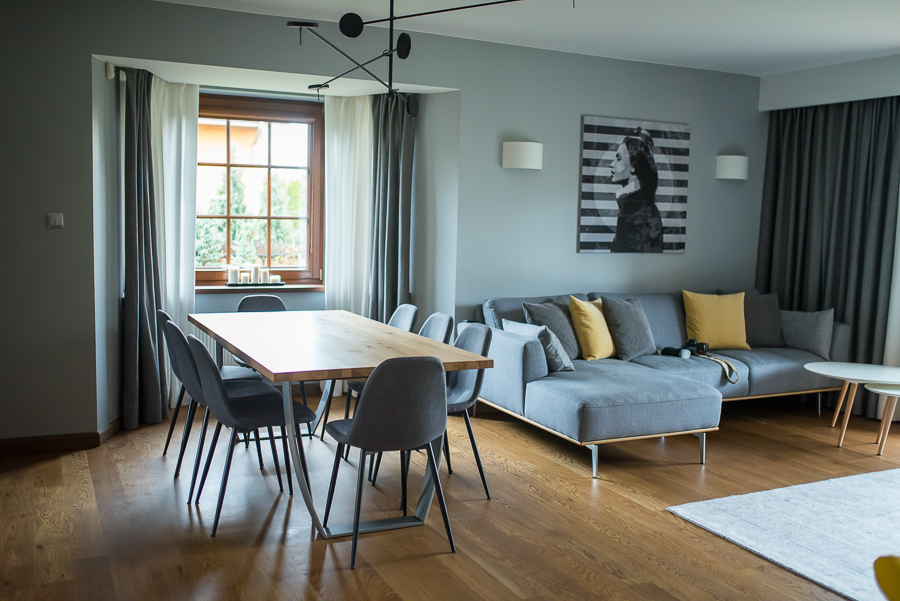
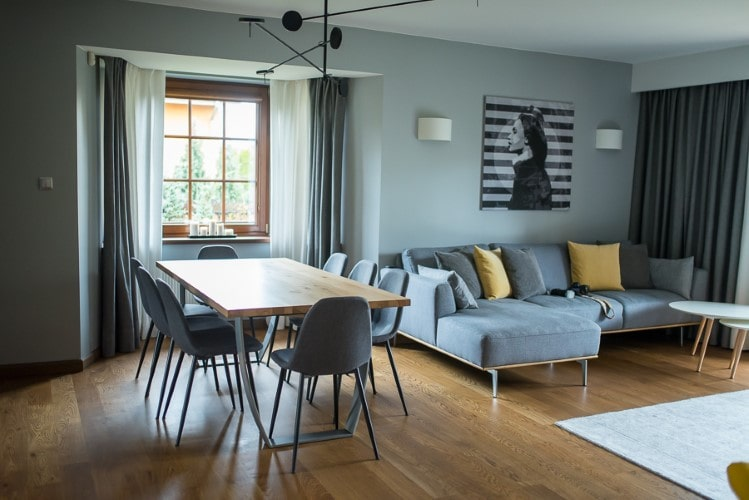
zdjecia resize

diff --git a/styles/style.css b/styles/style.css
@@ -84,43 +84,14 @@ a {
   padding-left: 25px;
 }
 
-.opis, .kontakt{
+.opis{
   width: 1000px;
   padding: 10px;
   color: #474747;
   text-align: justify;
   font-size: 17px;
-}
-
-.opis{
   margin-top: 35vh;
   line-height: 30px;
-  /* width: 100%;
-  background-color: rgb(104, 104, 104, 0.5);
-  height: 200px;
-  padding: 0 300px 0 300px; */
-}
-
-.kontakt{
-  /* background-color: red; */
-  width: 1000px;
-  padding: 0 100px 0 100px;
-  display: flex;
-  flex-wrap: wrap;
-  line-height: 25px;
-}
-
-.kontakt img{
-  width: 50%;
-}
-
-#kontaktBaner{
-  background: url("../images/kontakt_baner.png") no-repeat center center;
-  background-size: 100%;
-  /* background-color: blue; */
-  width: 100%;
-  height: 200px;
-  margin: 0 30px 0 30px;
 }
 
 footer{
@@ -137,6 +108,31 @@ footer{
 
 .footerText{
   align-self: center;
+}
+
+
+
+
+/* ###################### kontakt ###################### */
+
+.kontakt{
+  width: 1000px;
+  padding: 0 100px 0 100px;
+  display: flex;
+  flex-wrap: wrap;
+  line-height: 25px;
+  color: #474747;
+  text-align: justify;
+  font-size: 17px;
+}
+
+#kontaktBaner{
+  background: url("../images/kontakt_baner.png") no-repeat center center;
+  background-size: 100%;
+  /* background-color: blue; */
+  width: 100%;
+  height: 200px;
+  margin: 0 30px 0 30px;
 }
 
 

diff --git a/kontakt/index.html b/kontakt/index.html
@@ -44,7 +44,7 @@
         <div class="kontakt">
             <div id="kontaktBaner"></div>
             <div>
-                &nbsp;&nbsp;&nbsp;&nbsp;Projekty realizuję głównie na terenie województwa mazowieckiego.
+                &nbsp;&nbsp;&nbsp;Projekty realizuję głównie na terenie województwa mazowieckiego.
                 Każdy projekt wyceniam indywidualnie, na podstawie inwentaryzacji i zakresu prac.
                 W celu zapoznania się z ofertą i wyceną usługi projektowej, proszę o kontakt telefoniczny lub
                 mailowy.<br>
